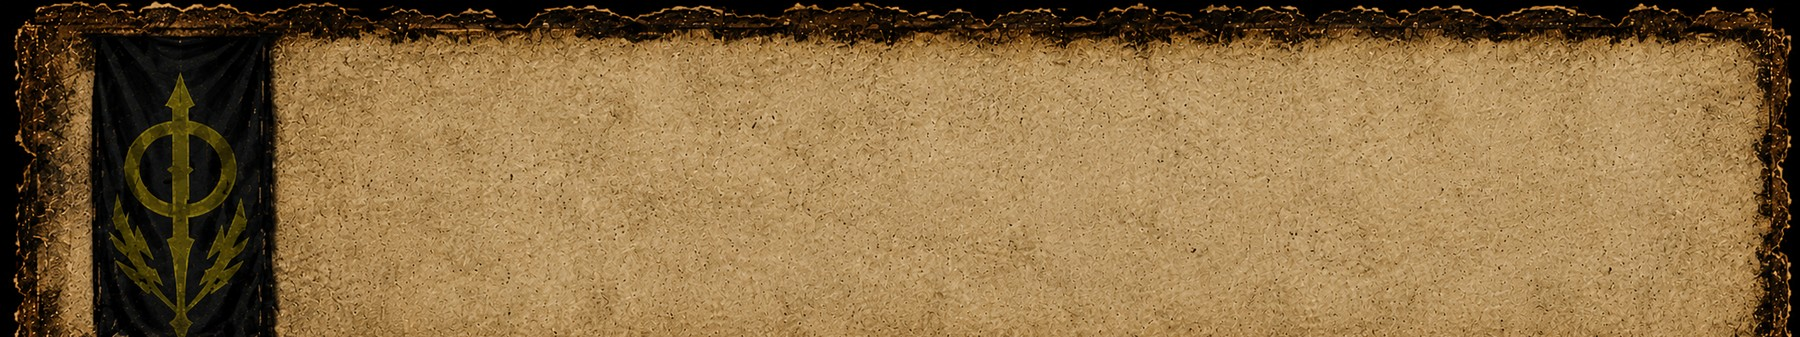
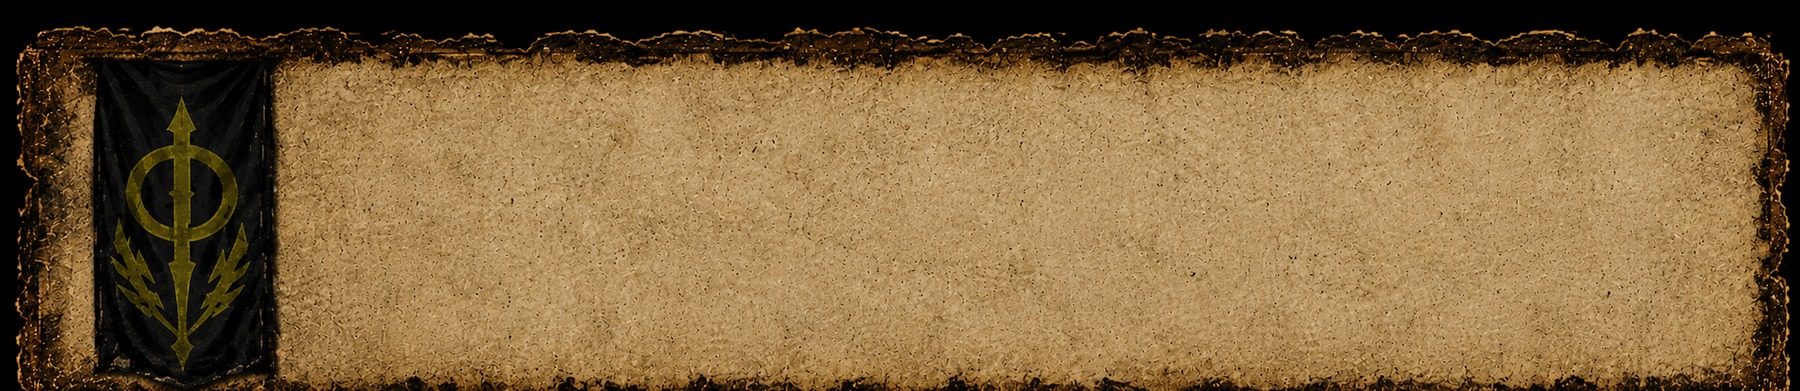
Add files via upload

diff --git a/index.html b/index.html
@@ -723,7 +723,7 @@ footer p {
 /* Non-Believers title uses the same pamphlet-style font as the names */
 #non-believers .page-heading h1 {
   font-family: "Cinzel", Georgia, "Times New Roman", serif !important;
-  font-size: 2.5rem !important;
+  font-size: clamp(2.6rem, 5.4vw, 4.2rem) !important;
   font-weight: 800 !important;
   letter-spacing: .10em !important;
   line-height: 1.05 !important;
@@ -883,6 +883,59 @@ footer p {
   #non-believers .non-believers-list li .name {
     font-size: 1.3rem !important;
     padding-left: 10px !important;
+  }
+}
+
+
+/* === FIX: Roman numerals match names + preserve full parchment border === */
+
+/* Use the real aspect ratio of the updated parchment asset and keep the full artwork visible */
+#non-believers .non-believers-list li {
+  aspect-ratio: 1800 / 560 !important;
+  background-size: 100% 100% !important;
+  background-position: center center !important;
+  background-repeat: no-repeat !important;
+
+  /* Give the burnt edges breathing room instead of clipping them */
+  overflow: visible !important;
+  margin-bottom: 14px !important;
+}
+
+/* Roman numeral uses exactly the same typography as the name */
+#non-believers .non-believers-list li .roman::before {
+  font-family: Georgia, "Times New Roman", serif !important;
+  font-size: 2.25rem !important;
+  font-weight: 800 !important;
+  line-height: 1 !important;
+  letter-spacing: .015em !important;
+  color: #17130d !important;
+}
+
+/* Keep numeral and name vertically aligned */
+#non-believers .non-believers-list li .roman {
+  align-self: center !important;
+  justify-self: end !important;
+  line-height: 1 !important;
+}
+
+#non-believers .non-believers-list li .name {
+  align-self: center !important;
+  line-height: 1 !important;
+}
+
+/* Slightly rebalance the columns now that the Roman numeral is larger */
+#non-believers .non-believers-list li {
+  grid-template-columns: 95px minmax(0, 1fr) !important;
+}
+
+@media (max-width: 700px) {
+  #non-believers .non-believers-list li {
+    grid-template-columns: 68px minmax(0, 1fr) !important;
+  }
+
+  #non-believers .non-believers-list li .roman::before,
+  #non-believers .non-believers-list li .name {
+    font-size: 1.3rem !important;
   }
 }
 
